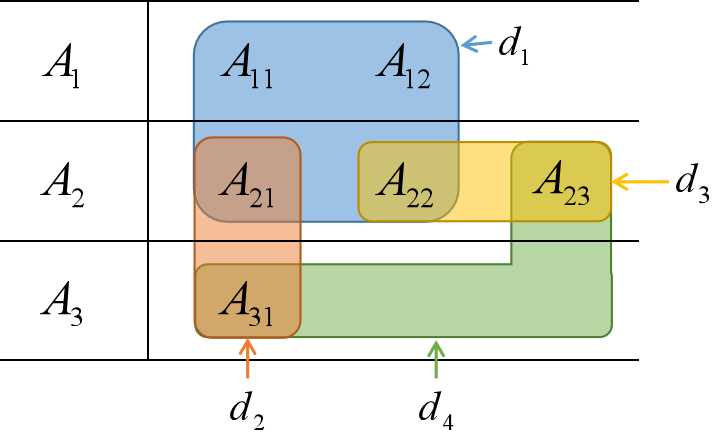
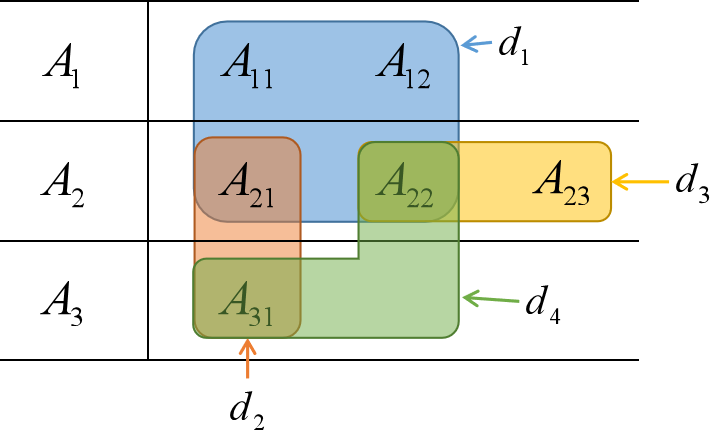
update proposal

Changed region(s): [[0.2451, 0.2968, 0.8579, 0.7717], [0.5822, 0.8904, 0.6435, 0.9795], [0.5822, 0.7717, 0.6128, 0.8607]]

diff --git a/proposal/proposal.tex b/proposal/proposal.tex
@@ -115,19 +115,19 @@
 \begin{document}
 
 %% Title information
-\title[]{CS222 Project Proposal}         %% [Short Title] is optional;
+\title[Task-Specific Network Fusion through CDRP Model Decomposition and Assembly]{CS222 Project Proposal: Task-Specific Network Fusion through CDRP Model Decomposition and Assembly}         %% [Short Title] is optional;
 %% when present, will be used in
 %% header instead of Full Title.
 
 \author{Zhongye Wang}
-\authornote{Student Number: 517030910353, Parallel Authorship}
+% \authornote{Student Number: 517030910353, Parallel Authorship}
 % \authornote{Supervised by Qinxiang Cao, Shanghai Jiao Tong University, John Hopcroft Center for Computer Science.}          %% \authornote is optional;
 %% can be repeated if necessary
 %\orcid{nnnn-nnnn-nnnn-nnnn}             %% \orcid is optional
 \affiliation{
 	%\position{Position2b}
 	%\department{Department2b}             %% \department is recommended
-	\institution{Shanghai Jiao Tong University}           %% \institution is required
+	\institution{Shanghai Jiao Tong University, 517030910353}           %% \institution is required
 	%\streetaddress{Street3b Address2b}
 	%\city{City2b}
 	%\state{State2b}
@@ -137,14 +137,14 @@
 % \email{wangzhongye1110@sjtu.edu.cn}          %% \email is recommended
 
 \author{Yichen Xie}
-\authornote{Student Number: 517030910355, Parallel Authorship}
+% \authornote{Student Number: 517030910355, Parallel Authorship}
 % \authornote{Supervised by Qinxiang Cao, Shanghai Jiao Tong University, John Hopcroft Center for Computer Science.}          %% \authornote is optional;
 %% can be repeated if necessary
 %\orcid{nnnn-nnnn-nnnn-nnnn}             %% \orcid is optional
 \affiliation{
 	%\position{Position2b}
 	%\department{Department2b}             %% \department is recommended
-	\institution{Shanghai Jiao Tong University}           %% \institution is required
+	\institution{Shanghai Jiao Tong University, 517030910355}           %% \institution is required
 	%\streetaddress{Street3b Address2b}
 	%\city{City2b}
 	%\state{State2b}
@@ -154,14 +154,14 @@
 % \email{}          %% \email is recommended
 
 \author{Xinyu Zhan}
-\authornote{Student Number: 517030910358, Parallel Authorship}
+% \authornote{Student Number: 517030910358, Parallel Authorship}
 % \authornote{Supervised by Qinxiang Cao, Shanghai Jiao Tong University, John Hopcroft Center for Computer Science.}          %% \authornote is optional;
 %% can be repeated if necessary
 %\orcid{nnnn-nnnn-nnnn-nnnn}             %% \orcid is optional
 \affiliation{
 	%\position{Position2b}
 	%\department{Department2b}             %% \department is recommended
-	\institution{Shanghai Jiao Tong University}           %% \institution is required
+	\institution{Shanghai Jiao Tong University, 517030910358}           %% \institution is required
 	%\streetaddress{Street3b Address2b}
 	%\city{City2b}
 	%\state{State2b}
@@ -201,37 +201,112 @@
 % Recent years have witnessed the rapid development of deep learning.
 The development of deep learning has proved its great capability, and it will be more beneficial if we can plant deep learning models into edge devices like wearable devices.
 However, the limited energy supply and computational capability of edge devices lead to constraints on the scale and complexity of deep neural networks.
-We need light-weight models to meet these requirements of edge device.
-In this project, we will seek for a combination of light-weight neural networks to substitute the original complex model while preserving its functionality.
+The edge devices often need only to perform very specific tasks, whereas the pre-trained models deals with more general cases.
+This makes it possible for us to develop task-specific and light-weighted models to meet various constraints of edge device.
+
+Network fusion is a potential way to further improve the performance of network models with the advance of edge devices, where we could deploy many models through devices, let them perform inference in parallel, and retrieve and join the results \cite{fang2019teamnet}.
+Nevertheless, this could cause redundant complexity across models, making it unable to fully utilize the capability of each edge devices.
+
+In this project, we will seek for a decomposition and a combination of light-weight neural networks to substitute the original complex model while preserving its functionality.
+Moreover, we want to satisfy some given tasks (a subset of the original domain) with the minimum model complexity, i.e., the combination should assemble only necessary parts for the task-specific model.
 % With this new model, we will try to reduce the parameter number and computing consumption notably at the expense of acceptable accuracy decline compared to the original large model.
 
 % xyc
 \section{Problem Description}
-We mainly focus on the task to replace a large deep learning model with a set of small models with reduced complexity.
-Using too many small models can still result in tremendous amount of calculation in inference and affect models' performance in edge devices, so we limit the overall complexity of models as well.
-% Then, the total computational consumption can decrease definitely.
-As a result, edge device can profit from the lowered demand for computational consumption.
-% And these small models are independent from the original deep learning network at least in the inference phase.
-% Hence, they can process the data on the edge device without communication with the cloud or servers, which extend the application range of these device.
+\label{sec:problem-desc}
+The problem of our interest can be divided into two stages: network decomposition and network assembly.
 
-There are many possible approaches in the design of small model system.
-\begin{itemize}
-  \item We could train small models each with specific tasks, which can be implemented with satisfying performance and simple network structure.
-  \item We could train small models each dealing with part of the dataset, which can be combined to handle all data points efficiently.
+We first look into the assembly task.
+Given a set of decomposed small networks, each covers the classification\footnote{We will take the image recognition (classification) task as the example throughout the project.} task of a subset of the dataset, we need to find a subset of those models for any given tasks.
+Following problems reflect the complexity of the assembly task:\begin{itemize}
+  \item There could exist overlapping functionalities among models, i.e., several models could cover the classification of the same subset of samples, in which case we want a careful selection of those produce the optimal performance.
+  \item The given task could be comparably simpler than that of the original model. We need to determine wether a given reduced model can satisfy the requirement and how to further reduce its complexity.
 \end{itemize}
-Our focus will be the former one, where we want each model to perform binary decisions in the context of classification and the union of these models should uniquely determine the category of any sample.
-In this way, small models serve as feature extractors that jointly produce an embedding for the data sample.
-We can also retrieve such embedding implicitly using neural networks, but we choose to achieve the optimal embedding explicitly by solving the search problem formulated in \cref{sec:formulation}.
 
-We will take the image recognition (classification) task as the example throughout the project.
-At present, boosting\cite{Schapire1989The} tends to be one possible solution.
-However, the weaker learners in these algorithm, which may be very simple classifiers, are so susceptible that the outcome is sensitive to noisy data and outliers.
-By contrast, thanks to the application of neural networks and more sophisticated combination methods, we will attempt to pursue a more robust and accurate model.
+Two natural questions follows the above assembly task: how to find the initial set of decomposed small networks, and how to determine the sample subsets they cover.
+That is the network decomposition task we are interested in.
+An intuitive way to achieve such decomposition is to arrange samples into subsets according to their labels, and train separate models for each class.
+Nevertheless, this makes the assembly task trivial, because there exists no overlapping among decomposed models and the problem can be solved in linear time by incrementally selecting required classes.
+It also requires extra training, and the complexity for the resulting model could still be very large.
+It is challenging to find a fine-grained decomposition of an existing model and dataset.
+
+% We mainly focus on the task to replace a large deep learning model with a set of small models with reduced complexity.
+% Using too many small models can still result in tremendous amount of calculation in inference and affect models' performance in edge devices, so we limit the overall complexity of models as well.
+% % Then, the total computational consumption can decrease definitely.
+% As a result, edge device can profit from the lowered demand for computational consumption.
+% % And these small models are independent from the original deep learning network at least in the inference phase.
+% % Hence, they can process the data on the edge device without communication with the cloud or servers, which extend the application range of these device.
+
+% There are many possible approaches in the design of small model system.
+% \begin{itemize}
+%   \item We could train small models each with specific tasks, which can be implemented with satisfying performance and simple network structure.
+%   \item We could train small models each dealing with part of the dataset, which can be combined to handle all data points efficiently.
+% \end{itemize}
+% Our focus will be the former one, where we want each model to perform binary decisions in the context of classification and the union of these models should uniquely determine the category of any sample.
+
+% TODO: still an embedding?
+% A more high-level understanding of the problem is to consider small models as feature extractors that jointly produce an embedding for the data sample.
+% We can also retrieve such embedding implicitly using neural networks, but we choose to achieve the optimal embedding explicitly by solving the search problem formulated in \cref{sec:formulation}.
+
+% We will take the image recognition (classification) task as the example throughout the project.
+% At present, boosting\cite{Schapire1989The} tends to be one possible solution.
+% However, the weaker learners in these algorithm, which may be very simple classifiers, are so susceptible that the outcome is sensitive to noisy data and outliers.
+% By contrast, thanks to the application of neural networks and more sophisticated combination methods, we will attempt to pursue a more robust and accurate model.
 
 % wzy
 \section{Problem Formulation}
 \label{sec:formulation}
-There has not been much time for us to fully consider the optimal way of addressing the problem, but we do propose one possible formulation and some solution ideas in this section.
+% There has not been much time for us to fully consider the optimal way of addressing the problem, but we do propose one possible formulation and some solution ideas in this section.
+
+In this section, we propose the critical data routing path (CDRP) decomposition for the decomposition task and a formal formulation of the assembly task.
+
+\subsection{CDRP Models and CDRP Based Clustering}
+In the context of convolutional neural network, critical data routing path \cite{wang2018interpret} \cite{yu2018distilling} describes subsets of filters in all convolutional layers, whose activations are important to the correct classification of some samples.
+Removing them could cause significant performance drop for those samples, while preserving them only, the model still has high chance to classifies some of those samples correctly.
+
+Wang \textit{et al.} trains a set of gates to either suppress or preserve the activation of each filters for one given sample to decrease the model complexity but maintain the correctness classification of the samples.
+The preserved filters becomes the CDRP for the sample, and we get an over-fine-grained model decomposition per sample.
+Also, the CDRP can also be some feature representation of the sample under the context of the original model, i.e., similar samples sharing the similar features will have high probability of sharing the same CDRP.
+Based on this conjecture, we propose the CDRP clustering to merge decomposed models and find the corresponding covering set.
+
+After learning the gates for each sample, we encode the sample using corresponding weights $\Lambda$ assigned to each gate.
+We then cluster samples in this $Lambda$-space, and for samples in the same cluster, we might use the CDRP model of its centroid to correctly classify those samples, assuming the number of clusters is adequate.
+This is true because their CDRP models are similar to the one of the centroid since we are using this similarity to perform the clustering.
+
+We will take the rounded centroid CDRP models as the initial set of decomposed models and take corresponding clusters as the sample subset.
+
+\paragraph{Remark.}
+\label{par:side-project}
+If two samples of different class are assigned the same cluster, they will activate almost identical filters in the original model, causing it to label them as the same class.
+This gives us a potential way to analyze why the model makes mistakes in an intuitive way.
+If time allows, we might consider this as a side project.
+
+\subsection{Network Fusion of CDRP Models}
+However, the CDRP decomposition makes the assembly problem for a single CNN model trivial, because this results in the same situation of the trivial decomposition we proposed in \cref{sec:problem-desc}.
+We now have disjoint cluster of samples, where samples in the same cluster shares the same label (same arguments as the \textit{remark}~\ref{par:side-project}).
+To cover a given set of classes, we only need to cover the set of clusters belonging to those classes, i.e., a linear algorithm to incrementally include corresponding CDRP models.
+There are no feasible solutions other than the optimal one.
+
+But luckily, things become quite different for multiple networks, and the CDRP decomposition makes the fine-grained network fusion possible.
+Let us consider a very general example in Figure~\ref{fig:fusion-example}, where we want to fuse two different networks of the the same task but trained on two different dataset.
+If we only want to determine wether a sample has the orange label correctly, we have following options: $(D_2 \cap C_3) \cup (D_3 \cap C_2)$, $(D_2 \cap C_1^c) \cup (D_3 \cap C_1^c)$, $(D_1^c \cap C_3) \cup (D_1^c \cap C_2)$, where $D^c$ is the compliment classifier.
+The resulting performance could vary among different configurations.
+
+\begin{figure}[h]
+  \centering
+  \includegraphics[width=0.38\linewidth]{fig/fusion_example.png}
+  \caption{Joint CDRP Decomposition and Clustering on Two Dataset:
+  We have a circle dataset and triangle dataset, where three colors represents three labels.
+  The grey boxes are clusters from model $C$ trained on the circle dataset, and the blue ones are from model $D$ trained on the triangle dataset.}
+  \label{fig:fusion-example}
+\end{figure}
+
+Such problem setting not only allow the problem to stay non-trivial, but also holds great significance in practice.
+If we perform the clustering across datasets, we allow the fused model to generalize better and become more versatile.
+Moreover, the fusion is more efficient, because we have removed many redundant feature overlapping in unit decomposed models.
+
+\subsection{Assembling CDRP Models}
+Next, we give a problem formulation that assembles the decomposed CRP models into a new model satisfying specific classification tasks.
 
 Assume there are $N$ classes in total, each denoted by $A_i$.
 We further divide each class $A_i$ into $M_i$ subsets $A_{ij}$ according to some features of samples, e.g., the activation of certain convolution filters.
@@ -240,24 +315,34 @@ Say classifier $d$ separates $\{A_{ij} \,|\, (i, j) \in I_d\}$ from the rest of 
 Here, $I_d$ is the positive label set defined by the classifier $d$.
 Note that we can always define a compliment classifier whose positive label set is exactly the negative label set of the classifier $d$.
 
-Our task is to find a subset $D^* \subset \mathcal{D}$, such that for any class $A_i$, there exists a partition that divides it into some subclasses $S_i^{(l)}$ where $A_i = \bigcup_l \{A_{ij} \,|\, (i, j) \in S_i^{(l)}\}$, and for each subclass $S_i^{(l)}$ there exists a subset of classifiers $D^{(l)} \subseteq D^*$ where $S_i^{(l)} = \bigcap_d \{I_d \,|\, d \in D^{(l)}\}$.
+Given a target label set $\mathcal{A}$, our task is to find a subset $D^* \subset \mathcal{D}$, such that for any class $A_i \in \mathcal{A}$, there exists a partition that divides it into some subclasses $S_i^{(l)}$ where $A_i = \bigcup_l \{A_{ij} \,|\, (i, j) \in S_i^{(l)}\}$, and for each subclass $S_i^{(l)}$ there exists a subset of classifiers $D^{(l)} \subseteq D^*$ where $S_i^{(l)} = \bigcap_d \{I_d \,|\, d \in D^{(l)}\}$.
 Here, subclass $S_i^{(l)}$ represents the union of some subsets $A_{ij}$ of class $A_i$, and the union of all subclasses of $A_i$ should reconstruct the $A_i$ itself.
 The optimal set of classifiers $D^*$ should allow us to determine wether a sample belongs to any given subclass $S_i^{(l)}$ using a subset $D^{(l)}$ in it, which in turn determines wether the sample belongs to $A_i$.
-Figure~\ref{fig:feasible-example} shows a feasible classifier set $D$ in a simple example.
 
 \begin{figure}[h]
     \centering
     \includegraphics[width=0.45\linewidth]{fig/formulation_example.png}
-    \caption{An Example of Feasible Classifier Set:
+    \caption{An Example Problem Setting:
     The samples in class $A_1$ is further divided into $A_{11}, A_{12}$ and those in class $A_2$ is further divided into $A_{21}, A_{22}, A_{23}$.
     We do not divide $A_3$ but rename it to $A_{31}$.
-    There are 4 discriminators $d_1, d_2, d_3, d_4$ respectively identify $\{A_{11}, A_{12}, A_{21}, A_{22}\}$, $\{A_{21}, A_{31}\}$, $\{A_{22}, A_{23}\}$, and $\{A_{23}, A_{31}\}$.
-    We have: \textit{(a)} the intersection of $d_1$ and the compliments of $d_2, d_3$ identifies $A_1 = A_{11} \cup A_{12}$;
-    \textit{(b)} the intersection of $d_1$ and $d_2$ identifies $A_{21}$, and its union with $d_3$ determines the entire $A_2$;
-    \textit{(c)} the intersection of $d_3$ and the compliment of $d_1$ determines $A_3 = A_{31}$.
-    Clearly, $D = \{d_1, d_2, d_3\}$ is a feasible set, where the redundant classifier $d_4$ is not selected.}
+    There are 4 discriminators $d_1, d_2, d_3, d_4$ respectively identify $\{A_{11}, A_{12}, A_{21}, A_{22}\}$, $\{A_{21}, A_{31}\}$, $\{A_{22}, A_{23}\}$, and $\{A_{22}, A_{31}\}$.}
     \label{fig:feasible-example}
 \end{figure}
+
+Figure~\ref{fig:feasible-example} shows an example problem setting, and we give solutions to the following two instances of the problem:
+\begin{itemize}
+  \item \textbf{$\mathcal{A} = \{A_1, A_2, A_3\}$:}
+  A feasible solution is $D = \{d_1, d_2, d_3\}$, which covers all classes because: \begin{enumerate}
+    \item[\textit{(a)}] the intersection of $d_2, d_3$'s compliments identifies $A_1 = A_{11} \cup A_{12}$;
+    \item[\textit{(b)}] the intersection of $d_1$ and $d_2$ identifies $A_{21}$, and its union with $d_3$ determines the entire $A_2$;
+    \item[\textit{(c)}] the intersection of $d_3$ and the compliment of $d_1$ determines $A_3 = A_{31}$.
+  \end{enumerate}
+  \item \textbf{$\mathcal{A} = \{A_3\}$:}
+  A feasible solution is $D = \{d_2, d_4\}$ because \begin{enumerate}
+    \item[\textit{(a)}] the intersection of $d_2$ and $d_4$ uniquely identifies $A_{31} = A_3$;
+    \item[\textit{(b)}] we do not need to include other discriminators to distinguish between $A_1$ and $A_2$, as long as it classifies them as \textit{not $A_3$}.
+  \end{enumerate}
+\end{itemize}
 
 There are further constraints and considerations of the optimal discriminator set $D^*$.
 \begin{itemize}
@@ -267,30 +352,50 @@ There are further constraints and considerations of the optimal discriminator se
 \end{itemize}
 These are factors we will consider in the later development and we are open for other suggestions.
 
-Beside these factors, there are other implementation issues about the solution to the problem.
-We have considered a given search space for small models, where the performance and functionality of each model is known as a prior.
-This allows us to concentrate on the search part of the solution.
-Nevertheless, we do not have such a prior in practice.
-Instead, we need to determine the next small model to be explored during the search, which we could formulate as a local search problem.
+% Beside these factors, there are other implementation issues about the solution to the problem.
+% We have considered a given search space for small models, where the performance and functionality of each model is known as a prior.
+% This allows us to concentrate on the search part of the solution.
+% Nevertheless, we do not have such a prior in practice.
+% Instead, we need to determine the next small model to be explored during the search, which we could formulate as a local search problem.
 
 % zxy
 \section{Related Work}
+There have been other similar works trying to understand and prune the complexity of the CNN.
+Zhou \textit{et al.} \cite{zhou2018interpreting} \cite{zhou2018revisiting} seek to understand the influence of certain filters on the accuracy wrt. some specific classes of samples by ablation and dissection.
+Their work provides certain explanations of the outcome, but they do not explain how their technique can be utilize to improve or compress the model and it is only useful for network interpretation.
+Yu \textit{et al.} \cite{yu2018distilling} attempt to produce task-specific models with reduced complexity through critical path distillation.
+They identify critical paths through activation visualization for specific classes, which is more efficient than training gates to find them in our work.
+But this means their critical path models are at the class level and these models can not interact with other external models through network fusion.
+
+Qin \textit{et al.} propose the CAPTOR \cite{qin2019captor}, a framework for filter pruning also through clustering.
+Different from our clustering method, they perform the clustering on filters with similar activation maximization visualization and prune similar filters to remove redundances.
+We could also use this technique to remove redundances within a CDRP model.
+Their pruning is again performed at the class level, while ours assembly is performed at the feature level, which is more fine-grained.
+
+On the topic of network fusion, there are also many marvelous researches.
+Du \textit{et al.} \cite{du2017fused} use multiple DNNs to refine the detections of a pedestrian detection generator and fuse these DNNs by fusing their outputs.
+This type of output level fusion is coarse-grained, where redundant feature extractions may have occurred in DNNs.
+On the opposite, Feichtenhofer\cite{feichtenhofer2016convolutional} proposed an extremely fine-grained fusion of multiple CNNs for video action recognition, where they carry out spatial fusion and temporal fusion on the layer level and achieves state-of-the-art results.
+However, there are common problems of both work.
+Their framework are task-specific and is difficult to apply their techniques in other domains.
+And their works do not aim to reduce the network complexity during the fusion process.
+
 % embedding
-As mentioned before, our approach resembles the embedding method, which is a common practice to address the curse of dimensionality, where we map data points into a subspace with reduced dimensionality and carry out the task in this space \cite{2016ml}.
-This can be accomplished with Multiple Dimension Scaling (MDS) \cite{cox2000multidimensional} or implicitly train an embedding in the hidden layers of a neural network.
-However, we explicitly search for an embedding by searching the optimal discriminator set, where each discriminator simulates one component in the embedding and we could directly obtain the category of some samples.
-It is also possible to consider more complex way of classifying using the embedding like adding another layer of network to perform the classification step, but we will stick to the current setting in the early stages of the development.
+% As mentioned before, our approach resembles the embedding method, which is a common practice to address the curse of dimensionality, where we map data points into a subspace with reduced dimensionality and carry out the task in this space \cite{2016ml}.
+% This can be accomplished with Multiple Dimension Scaling (MDS) \cite{cox2000multidimensional} or implicitly train an embedding in the hidden layers of a neural network.
+% However, we explicitly search for an embedding by searching the optimal discriminator set, where each discriminator simulates one component in the embedding and we could directly obtain the category of some samples.
+% It is also possible to consider more complex way of classifying using the embedding like adding another layer of network to perform the classification step, but we will stick to the current setting in the early stages of the development.
 
 % ensemble
-A similar method that uses several weak learners to accomplish tasks is the ensemble method, which has been explored by many researchers. 
-Beriman\cite{BreimanBagging} proposed a method for generating multiple versions of a predictor by making bootstrap replicates of the learning set. 
-However, this method actually increased the amount of computation since it trained the learned repeatedly.
-Schapire\cite{Schapire1989The} proposed the boosting method to converting a weak learning algorithm into one that achieved arbitrarily high accuracy by combining a set of weak learners.
-This method was developed by Freund \textit{et al.}\cite{Freund1995A}, who proposed an adaptive version of the boost.
-Subsequent weak learners were tweaked in favor of those instances misclassified by previous classifiers. 
-Friedman \textit{et al.}\cite{FriedmanGreedy} proposed a new method called gradient boosting. 
-It performed additive optimization in functional space, which compensated for the weakness of weak classifiers in the light of the gradient of their loss function.
-We will consider to include their ideas to ensemble models in our discriminator set.
+% A similar method that uses several weak learners to accomplish tasks is the ensemble method, which has been explored by many researchers. 
+% Beriman\cite{BreimanBagging} proposed a method for generating multiple versions of a predictor by making bootstrap replicates of the learning set. 
+% However, this method actually increased the amount of computation since it trained the learned repeatedly.
+% Schapire\cite{Schapire1989The} proposed the boosting method to converting a weak learning algorithm into one that achieved arbitrarily high accuracy by combining a set of weak learners.
+% This method was developed by Freund \textit{et al.}\cite{Freund1995A}, who proposed an adaptive version of the boost.
+% Subsequent weak learners were tweaked in favor of those instances misclassified by previous classifiers. 
+% Friedman \textit{et al.}\cite{FriedmanGreedy} proposed a new method called gradient boosting. 
+% It performed additive optimization in functional space, which compensated for the weakness of weak classifiers in the light of the gradient of their loss function.
+% We will consider to include their ideas to ensemble models in our discriminator set.
 
 %% Acknowledgments
 
